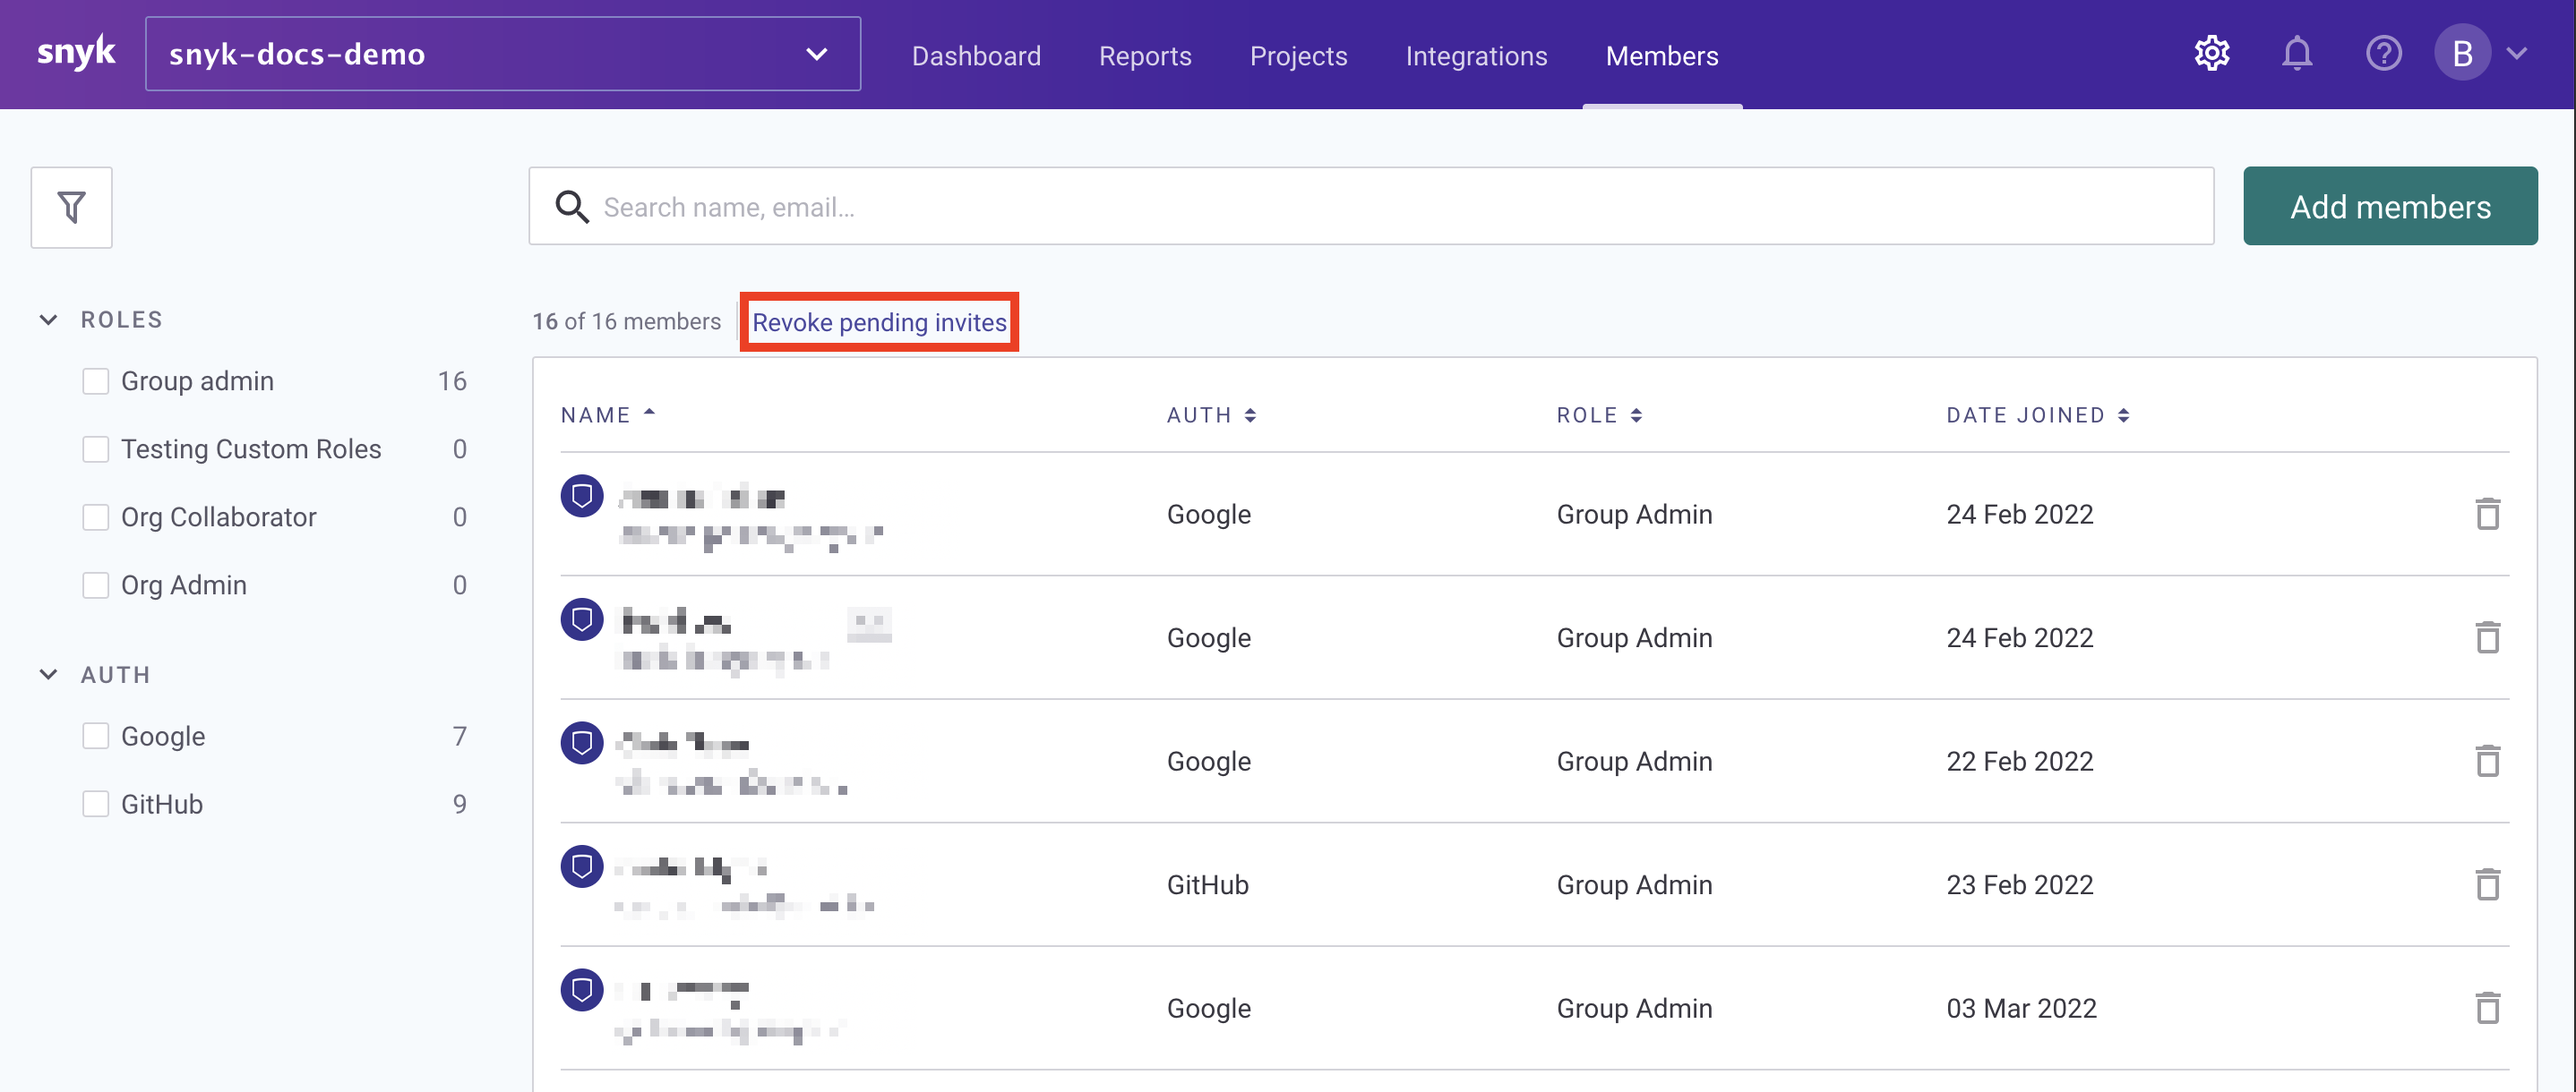
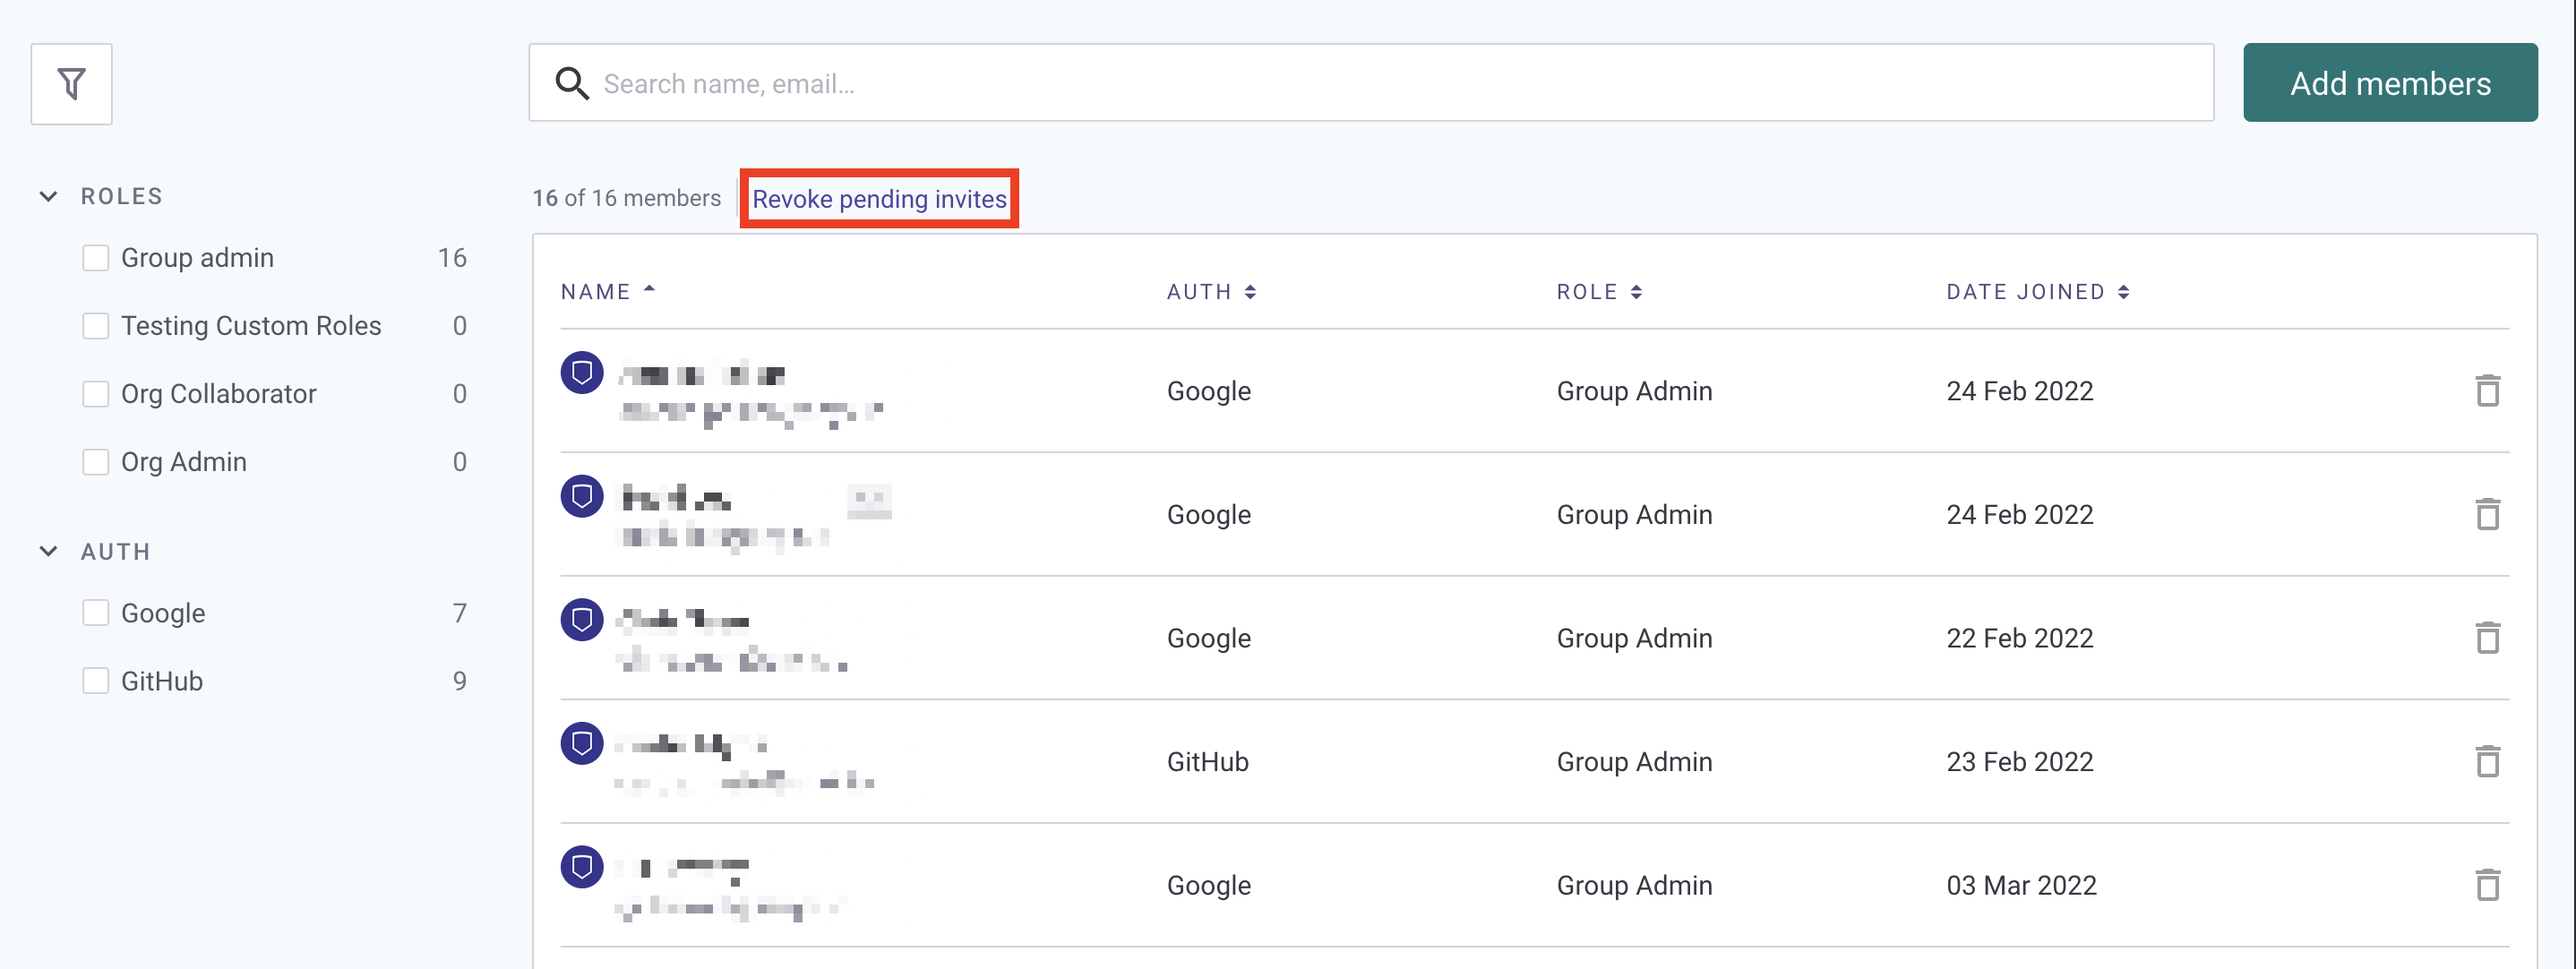
GitBook: [#3154] Screenshots update no ui change.

diff --git a/docs/products/snyk-container/image-scanning-library/acr-image-scanning/add-images-to-snyk-from-acr.md b/docs/products/snyk-container/image-scanning-library/acr-image-scanning/add-images-to-snyk-from-acr.md
@@ -14,8 +14,6 @@ Snyk tests and monitors Microsoft Azure Container Registry (ACR) container image
 1. Log in to your account and navigate to the relevant group and organization that you want to manage.
 2. Go to **Projects**, and click **Add projects**. The list of integrations already configured on your account opens, similar to the following: ![](../../../../.gitbook/assets/uuid-dd01aab7-482f-0fc2-01de-c2427a14a0e0-en.png)
 
-![](<../../../../.gitbook/assets/add-artifactory-images (1) (2) (1) (1) (1) (1) (1) (1) (1) (1) (1) (1) (1) (1) (1) (1) (1) (1) (1) (1) (1) (1) (1) (1) (1) (1) (1) (1) (1) (1) (1) (1) (1) (1) (1) (1) (1) (1) (1) (1) (1) (1) (1) (1) (1) (1) (1) (1) (1) (1) (1) (10) (38).gif>)
-
 The **Which images do you want to test?** view appears, displaying all of the available images for the registry to which you connected, grouped by each of your repositories, similar to the following:
 
 ![](<../../../../.gitbook/assets/uuid-bd9cf629-f5fb-b28b-1fc1-40df2367a7f9-en (1) (1) (2) (4) (2) (1) (1) (1) (1) (1) (1) (1) (1) (1) (1) (1) (1) (1) (1) (1) (1) (1) (1) (1) (1) (1) (1) (1) (1) (1) (1) (1) (1) (1) (1) (1) (1) (1) (1) (1) (1) (1) (1) (1) (1) (1) (1) (1) (1) (1) (  (4).png>)
@@ -27,11 +25,11 @@ The **Which images do you want to test?** view appears, displaying all of the av
 2.  Click **Add selected repositories**.
 
     A status bar appears at the top of the page as the images are imported; you can continue working in the meantime.
-3. When the import ends, notification of success, or failure, appears at the top of the page. Click **Refresh** to view the **Projects** page with the newly imported images. Images are grouped by repository and are each linked individually to a detailed Projects page.
+3. When the import ends, a notification of success, or failure, appears at the top of the page. Click **Refresh** to view the **Projects** page with the newly imported images. Images are grouped by repository and are each linked individually to a detailed Projects page.
 4. You can now connect your Git repo to this project in order to use your Dockerfile for enriched fix advice. For more info, see [Adding your Dockerfile and test your base image](https://support.snyk.io/hc/articles/360003916218#UUID-9ab347a6-8af0-ef6c-5ebd-cec21fbfab29).
 
 ACR files are indicated with a unique icon ![](../../../../.gitbook/assets/uuid-5d10608d-d674-d4ee-d6c2-6faadd6fc8ea-en.png) . You can now also filter to view only those projects:
 
 ![](<../../../../.gitbook/assets/image (4) (3) (3) (3) (3) (4) (4) (5) (4) (1) (1) (1) (1) (1) (1) (1) (1) (1) (1) (1) (1) (1) (1) (1) (1) (1) (1) (1) (1) (1) (1) (1) (1) (1) (1) (1) (1) (1) (1) (1) (1) (1) (1) (1) (1) (1) (1) (1) (1) (1) (1) (1) (1) (1) (1) (1) (1) (1) (10) (3).png>)
 
-ACR integration works similar to our other integrations. To continue to monitor, fix and manage your projects, see the relevant pages, also in our docs.
+ACR integration works similarly to our other integrations. To continue to monitor, fix and manage your projects, see the relevant pages, also in our docs.

diff --git a/docs/features/user-and-group-management/managing-users-and-permissions/member-roles.md b/docs/features/user-and-group-management/managing-users-and-permissions/member-roles.md
@@ -22,9 +22,7 @@ Future versions will add group-level access (for example, policies, group member
 
 You can find the default roles - Org Admin and Org Collaborator. When you click each of these roles you can view the associated permissions, but cannot modify the default roles.
 
-![Create new role option under Group Settings](<../../../.gitbook/assets/Screenshot 2022-06-23 at 15.21.58.png>)
-
-Click the **Create new Role** button and enter a role name and description. Role names should be unique, and can contain alphanumeric characters plus spaces.
+Click the **Create new Role** button and enter a role name and description. Role names should be unique and can contain alphanumeric characters plus spaces.
 
 ![Create a new role](<../../../.gitbook/assets/Screenshot 2022-06-23 at 15.28.12.png>)
 
@@ -117,14 +115,14 @@ Users who have permission (Create Service Account) can set up new service accoun
 Select an **Org** > **Settings** > **Service Accounts** >\
 Provide a name, choose a role, and click **Create**.
 
-![Select a Role while creating Org Service Account](<../../../.gitbook/assets/Screenshot 2022-05-31 at 09.42.43.png>)
+![Select a Role while creating Org Service Account](../../../.gitbook/assets/snyk-service-accounts.png)
 
-When you open a role that is assigned to Service Accounts, system would display a warning message. While updating the permissions associated with the role or deleting the role that would lead to reassigning the Service Accounts and users to a new role, be mindful of the potential impact.
+When you open a role that is assigned to Service Accounts, the system would display a warning message. While updating the permissions associated with the role or deleting the role that would lead to reassigning the Service Accounts and users to a new role, be mindful of the potential impact.
 
 ![](<../../../.gitbook/assets/Screenshot 2022-06-23 at 15.49.49.png>)
 
 {% hint style="warning" %}
-Snyk prevents users from creating organisation service accounts with a role that has more privileges than what they already have. You would encounter the below error, while trying to create a service account with a role that has more privileges than the logged in user.
+Snyk prevents users from creating organization service accounts with a role that has more privileges than what they already have. You would encounter the below error while trying to create a service account with a role that has more privileges than the logged in user.
 {% endhint %}
 
 ![](<../../../.gitbook/assets/Screenshot 2022-08-01 at 15.59.52.png>)

diff --git a/docs/features/fixing-and-prioritizing-issues/policies/shared-policies-overview.md b/docs/features/fixing-and-prioritizing-issues/policies/shared-policies-overview.md
@@ -5,21 +5,21 @@
 You must be a group administrator of the group in order to update **Policy** settings
 
 {% hint style="info" %}
-**Feature availability**  
+**Feature availability**\
 This feature is available to Enterprise customers. See [pricing plans](https://snyk.io/plans/) for more details.
 {% endhint %}
 
 ## Navigate to the Policy manager
 
-1. Log in to Snyk 
+1. Log in to Snyk
 2. Navigate to your group
 3. Click on the Policies tab in the navigation bar to see all the policies that exist within your group, broken out by category. This list will include the [default policy](shared-policies-overview.md#default-policies), which is automatically created for new groups for each policy category and cannot be removed.
 
-![](../../../.gitbook/assets/screen_shot_2021-08-11_at_2.15.48_pm.png)
+![](../../../.gitbook/assets/snyk-policy-manager.png)
 
 The Policy manager appears similar to the following:
 
-![](../../../.gitbook/assets/screenshot_2021-03-26_at_11.04.50_am.png)
+![](../../../.gitbook/assets/screenshot\_2021-03-26\_at\_11.04.50\_am.png)
 
 ## Default policies
 
@@ -30,4 +30,3 @@ When you create a **new** **organization**, it will automatically be added to th
 The default policy cannot be deleted; however, the default policy name, description, and the rules can be edited to match your preferences. A default policy can also contain no rules if you'd prefer.
 
 To learn more about how to add and remove organizations to the default policy, read more about it [here](https://docs.snyk.io/fixing-and-prioritizing-issues/policies/assign-a-policy-to-organizations).
-

diff --git a/docs/features/snyk-reports/README.md b/docs/features/snyk-reports/README.md
@@ -1,8 +1,8 @@
-# Reports
+# Snyk reports
 
 ## Introduction
 
-Snyk reports help security and development teams work together. As your coding projects progress, Snyk's reporting dashboard lets security professionals monitor activity and maintain security insight, without looking over development’s shoulder.&#x20;
+Snyk reports help security and development teams work together. As your coding projects progress, Snyk's reporting dashboard lets security professionals monitor activity and maintain security insight, without looking over development’s shoulder.
 
 Tracking analytics is simple when all your data can be found in a single screen, on Projects, Issues, Dependencies, and Licenses.
 
@@ -15,11 +15,11 @@ Reports are available with the Business and Enterprise plans. See the [plans and
 
 ### Accessing reports
 
-1. Navigate to the [Snyk homepage](https://snyk.io) and login to Snyk&#x20;
+1. Navigate to the [Snyk homepage](https://snyk.io) and login to Snyk
 2. [Login or create an account](https://app.snyk.io/login)
 3. Select the **Reports** menu option (in the top navigation bar)
 
-![The report tab is located in the top nav bar as shown here.](<../../.gitbook/assets/Screen Shot 2022-02-22 at 2.58.43 PM.png>)
+![The report tab is located in the top nav bar as shown here.](../../.gitbook/assets/snyk-org-report.png)
 
 {% hint style="warning" %}
 Reports do not support Snyk Code projects.

diff --git a/docs/features/fixing-and-prioritizing-issues/issue-management/prioritize-by-social-trends.md b/docs/features/fixing-and-prioritizing-issues/issue-management/prioritize-by-social-trends.md
@@ -1,10 +1,8 @@
-# Prioritize by Social Trends
+# Vulnerabilities with Social Trends
 
-**Overview of Snyk Social Trends prioritization**
+**Overview of Snyk Social Trends**
 
-Snyk shows a **Trending** banner on issues that are being actively discussed in Twitter.
-
-![](../../../.gitbook/assets/social-trends.gif)
+Snyk shows a **Trending** banner on issues that are being actively discussed on Twitter.
 
 Social Trends are calculated into the priority score by default. You can look at the top tweets mentioning this vulnerability by clicking on **View Tweets**.
 
@@ -13,7 +11,7 @@ How does Snyk determine if a vulnerability is trending?
 * Snyk monitors mentions of known vulnerabilities in Twitter, calculating the trend of tweets and reactions.
 * Bots and other noise gets canceled out to guarantee accuracy.
 * Unexpected peaks in the trend will raise a “Trending” notification.
-* The “Trending” notification is live until the trend dissipates plus several days.
+* The “Trending” notification is live until the trend dissipates--plus several days.
 
 {% hint style="info" %}
 See [Snyk Priority Score](https://docs.snyk.io/fixing-and-prioritizing-issues/starting-to-fix-vulnerabilities/snyk-priority-score) for more information on how vulnerabilities are prioritized by Snyk

diff --git a/docs/SUMMARY.md b/docs/SUMMARY.md
@@ -656,7 +656,7 @@
     * [Evaluating and prioritizing vulnerabilities](features/fixing-and-prioritizing-issues/issue-management/evaluating-and-prioritizing-vulnerabilities.md)
     * [Triaging issues](features/fixing-and-prioritizing-issues/issue-management/triaging-issues.md)
     * [Reachable vulnerabilities](features/fixing-and-prioritizing-issues/issue-management/reachable-vulnerabilities.md)
-    * [Prioritize by Social Trends](features/fixing-and-prioritizing-issues/issue-management/prioritize-by-social-trends.md)
+    * [Vulnerabilities with Social Trends](features/fixing-and-prioritizing-issues/issue-management/prioritize-by-social-trends.md)
   * [Policies](features/fixing-and-prioritizing-issues/policies/README.md)
     * [Shared Policies Overview](features/fixing-and-prioritizing-issues/policies/shared-policies-overview.md)
     * [Creating and editing policies](features/fixing-and-prioritizing-issues/policies/creating-and-editing-policies.md)

diff --git a/docs/products/snyk-container/image-scanning-library/jfrog-artifactory-image-scanning/add-artifactory-images-to-snyk.md b/docs/products/snyk-container/image-scanning-library/jfrog-artifactory-image-scanning/add-artifactory-images-to-snyk.md
@@ -12,9 +12,6 @@ Snyk tests and monitors your Artifactory container images by evaluating its tags
 **Steps:**
 
 * Log in to your account and navigate to the relevant group and organization that you want to manage.
-
-![](<../../../../.gitbook/assets/add-artifactory-images (1) (2) (1) (1) (1) (1) (1) (1) (1) (1) (1) (1) (1) (1) (1) (1) (1) (1) (1) (1) (1) (1) (1) (1) (1) (1) (1) (1) (1) (1) (1) (1) (1) (1) (1) (1) (1) (1) (1) (1) (1) (1) (1) (1) (1) (1) (1) (1) (1) (1) (1) (10) (37).gif>)
-
 * Go to **Projects**, and click **Add projects**. The list of integrations already configured on your account opens, similar to the following:
 
 ![](../../../../.gitbook/assets/uuid-dd01aab7-482f-0fc2-01de-c2427a14a0e0-en.png)

diff --git a/docs/features/user-and-group-management/setting-up-sso-for-authentication/self-serve-single-sign-on-sso.md b/docs/features/user-and-group-management/setting-up-sso-for-authentication/self-serve-single-sign-on-sso.md
@@ -39,7 +39,7 @@ To establish trust with Snyk, add an Entity ID, an ACS URL, and a Signing certif
 
 To access the Group overview for your group, click **Settings** [![](https://github.com/snyk/user-docs/raw/118bd8f19001bd64415f0ce63897f568c4b5327a/docs/.gitbook/assets/image%20\(70\).png)](https://github.com/snyk/user-docs/blob/118bd8f19001bd64415f0ce63897f568c4b5327a/docs/.gitbook/assets/image%20\(70\).png) > **SSO**:
 
-![Group settings](<../../../.gitbook/assets/Screenshot 2022-02-24 at 14.32.24.png>)
+![Group settings](../../../.gitbook/assets/snyk-sso.png)
 
 To map information from your Identity provider to Snyk, name your user attributes as follows (using the same capitalization and spelling).
 

diff --git a/docs/products/snyk-infrastructure-as-code/scan-kubernetes-configuration-files/configure-integration-for-security-issues-in-kubernetes-configuration-files.md b/docs/products/snyk-infrastructure-as-code/scan-kubernetes-configuration-files/configure-integration-for-security-issues-in-kubernetes-configuration-files.md
@@ -17,8 +17,6 @@ Snyk currently scans your Kubernetes configuration files in JSON and YAML format
 
 Log in to the Snyk Web UI ([app.snyk.io](https://app.snyk.io)), and navigate to the relevant group and organization that you want to manage
 
-![](<../../../.gitbook/assets/add-artifactory-images (1) (2) (1) (1) (1) (1) (1) (1) (1) (1) (1) (1) (1) (1) (1) (1) (1) (1) (1) (1) (1) (1) (1) (1) (1) (1) (1) (1) (1) (1) (1) (1) (1) (1) (1) (1) (1) (1) (1) (1) (1) (1) (1) (1) (1) (1) (1) (1) (1) (1) (1) (10) (47).gif>)
-
 {% hint style="info" %}
 **Note**\
 Integrations are managed per organization.

diff --git a/docs/features/user-and-group-management/managing-users-and-permissions/manage-users-in-your-organizations.md b/docs/features/user-and-group-management/managing-users-and-permissions/manage-users-in-your-organizations.md
@@ -1,10 +1,6 @@
 # Manage users in your organizations
 
-Select the **Members** top-level menu option to manage your organization's members:
-
-![](<../../../.gitbook/assets/Screen Shot 2022-02-24 at 1.05.40 PM.png>)
-
-You can:
+Select the **Members** top-level menu option to manage your organization's members, you can:
 
 * [Add members](manage-users-in-your-organizations.md#add-members)
 * [Revoke pending invites](manage-users-in-your-organizations.md#revoke-pending-invites)

diff --git a/docs/products/snyk-container/kubernetes-workload-and-image-scanning/installation-page/prerequisite-setting.md b/docs/products/snyk-container/kubernetes-workload-and-image-scanning/installation-page/prerequisite-setting.md
@@ -19,5 +19,3 @@ limits: cpu: "1" memory: "2Gi"
 * Your Kubernetes cluster must be able to communicate with Snyk outbound over HTTPS.
 * [Enable the Kubernetes Integration ](../kubernetes-integration-overview/viewing-your-kubernetes-integration-settings.md)to get your **Integration ID**.
 * Install [Helm](https://helm.sh/docs/intro/install/) locally
-
-![Copy the Integration ID](../../../../.gitbook/assets/CopyIntegration.gif)

diff --git a/docs/features/user-and-group-management/managing-users-and-permissions/manage-users-in-your-organizations-1.md b/docs/features/user-and-group-management/managing-users-and-permissions/manage-users-in-your-organizations-1.md
@@ -7,7 +7,7 @@ Groups are available with Enterprise and Business plans. See [pricing plans](htt
 
 Select the Group and **Members** top-level menu option to manage your group members:
 
-![](<../../../.gitbook/assets/Screenshot 2022-04-26 at 05.38.32 (1).png>)
+![](../../../.gitbook/assets/snyk-group-member.png)
 
 As a Group Admin (see [managing-permissions.md](managing-permissions.md "mention")), you can:
 
